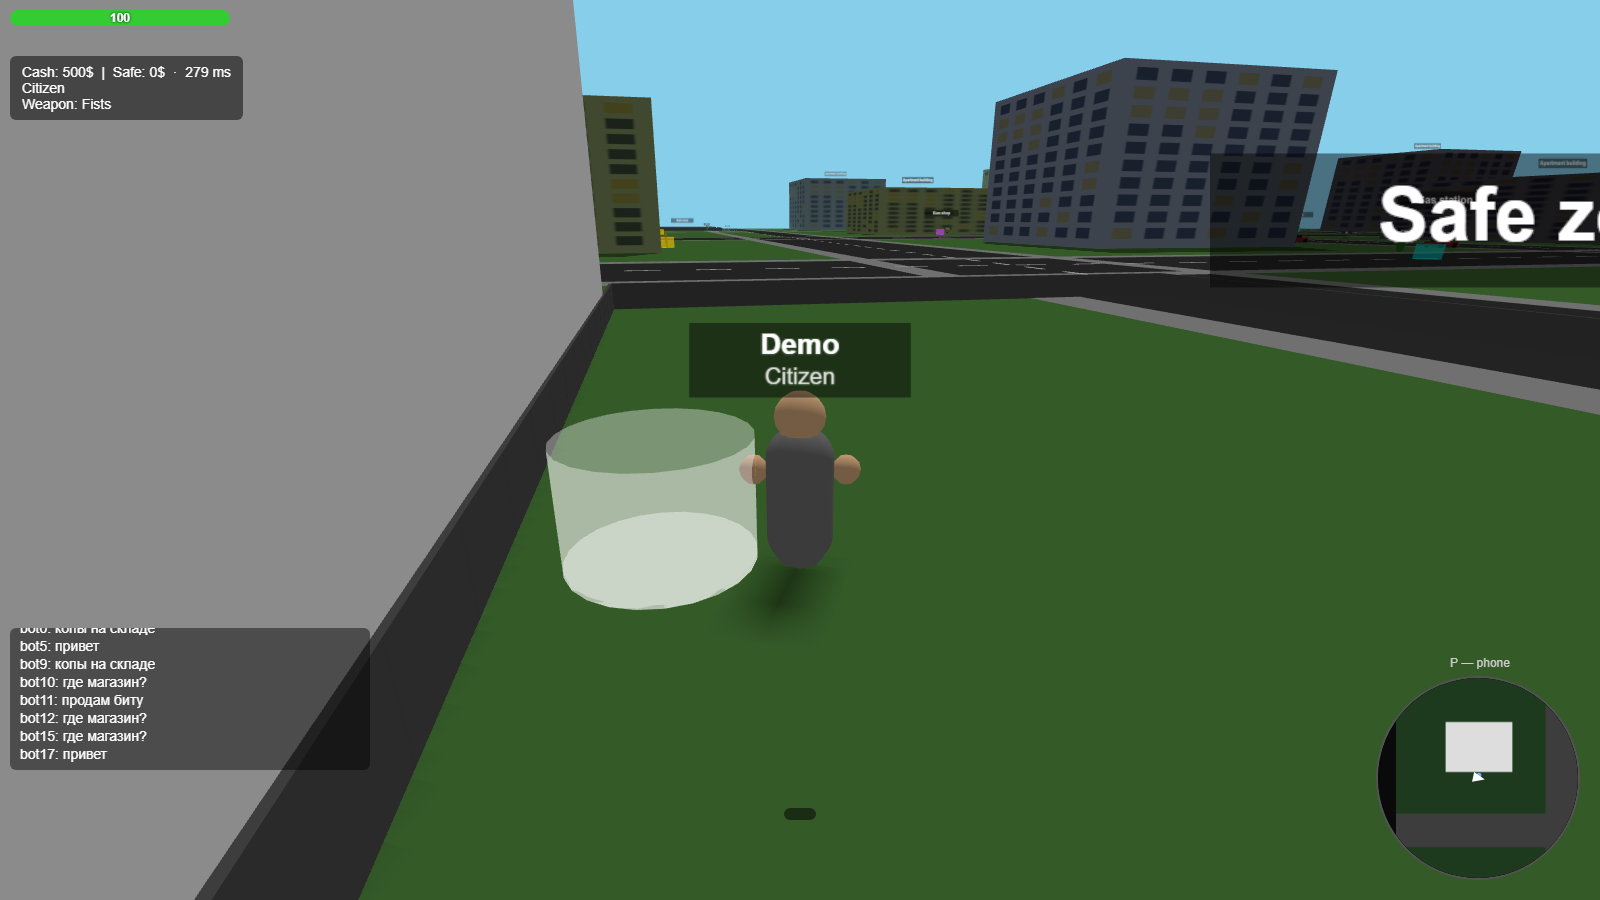
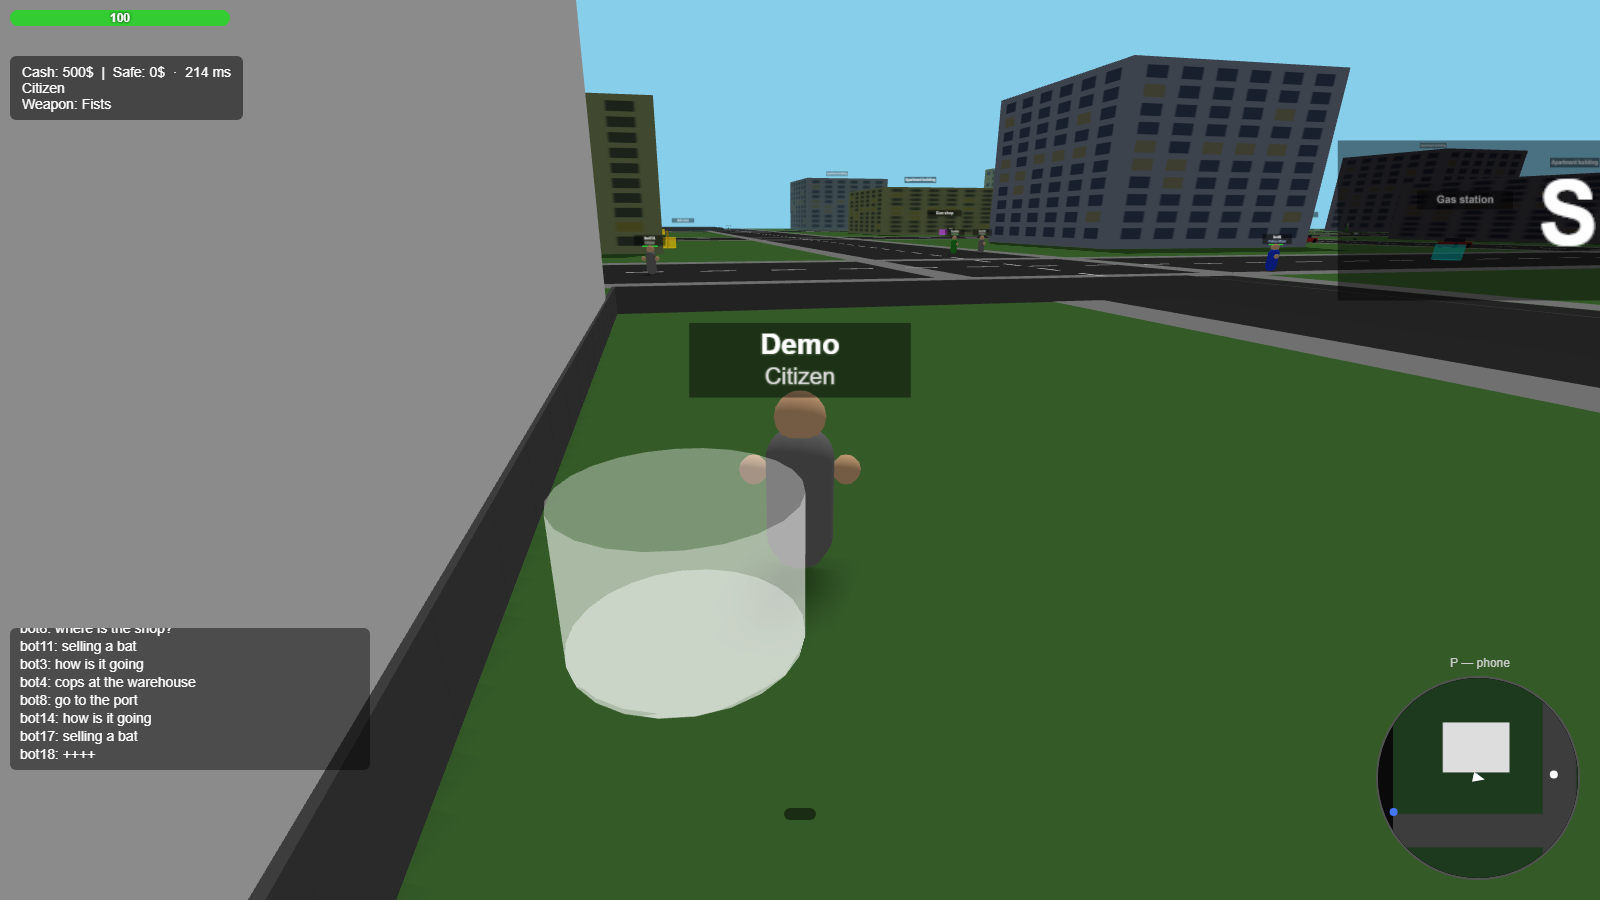
docs: retake screenshots with EN chat; loadtest bot phrases in English

diff --git a/server/loadtest/bots.ts b/server/loadtest/bots.ts
@@ -19,7 +19,7 @@ const httpUrl = url.replace(/^ws/, 'http');
 const AVG_TICK_MAX_MS = 100;
 const P99_TICK_MAX_MS = 300;
 
-const PHRASES = ['привет', 'как дела', 'го в порт', 'копы на складе', 'продам биту', 'где магазин?', '++++'];
+const PHRASES = ['hey', 'how is it going', 'go to the port', 'cops at the warehouse', 'selling a bat', 'where is the shop?', '++++'];
 
 interface Healthz { status: string; players: number; uptimeSec: number; rssMb?: number }
 
